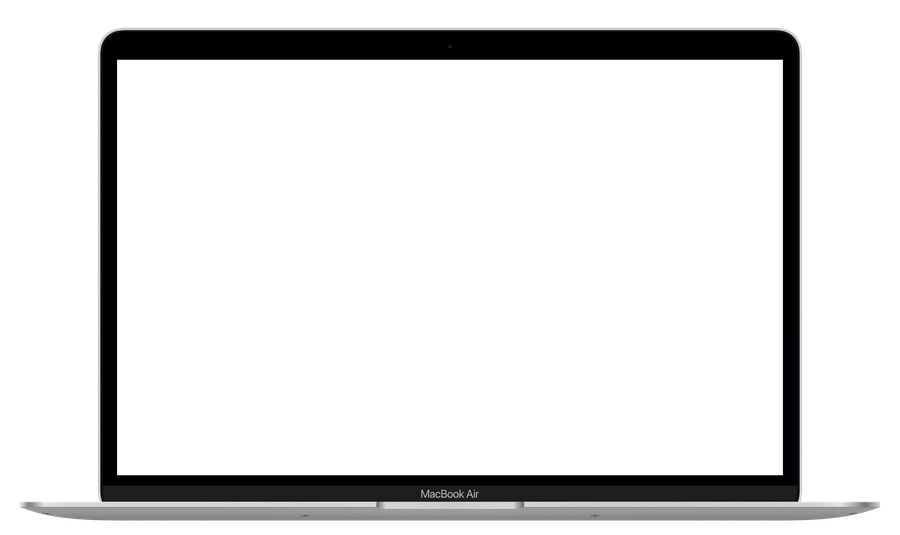
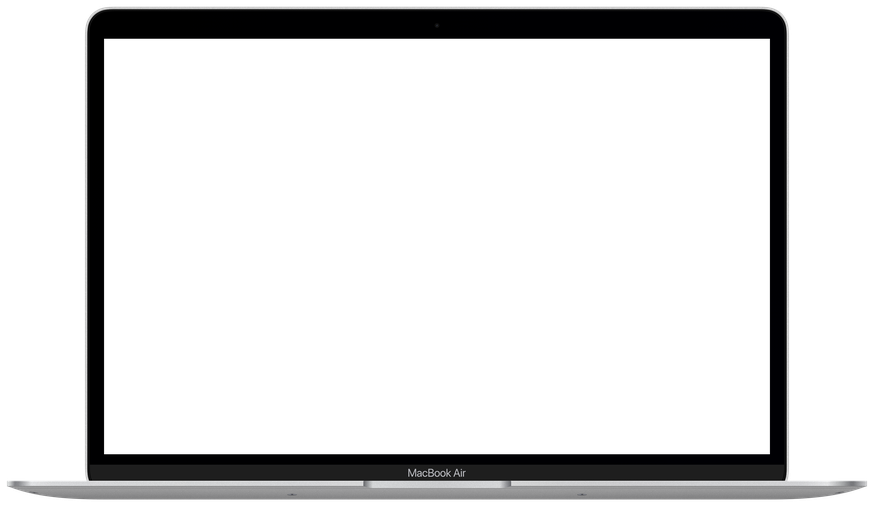
Close Dr Cuterus phone/laptop gap, enlarge laptop, dock plush at its corner
- Crop laptop-bezel.png to its actual content bounds (had padding of
  ~17-25px per side out of 900x535) and recompute .laptop position/size
  and .laptopScreen overlay percentages against the new crop origin
- Enlarge the laptop mockup ~13% and reposition so its visible left edge
  touches the phone's visible right edge with zero gap
- Recenter the plush cluster exactly on the laptop's new visible
  top-right corner so it straddles the corner half in, half out

Changed region(s): [[0.0, 0.0, 1.0, 1.0]]

diff --git a/src/components/case-studies/DrCuterus/DrCuterusCard.module.css b/src/components/case-studies/DrCuterus/DrCuterusCard.module.css
@@ -104,18 +104,18 @@
 /* Laptop mockup (homepage screenshot) */
 .laptop {
   position: absolute;
-  left: 265.55px;
-  top: 300.8px;
-  width: 426.564px;
-  height: 246.569px;
+  left: 259.06px;
+  top: 295.34px;
+  width: 454.4px;
+  height: 263.1px;
 }
 
 .laptopScreen {
   position: absolute;
-  left: 11.5%;
-  top: 6%;
-  width: 77%;
-  height: 80%;
+  left: 10.36%;
+  top: 2.19%;
+  width: 79.29%;
+  height: 84.59%;
   overflow: hidden;
 }
 
@@ -141,8 +141,8 @@
 /* Plush toy cutout */
 .plush {
   position: absolute;
-  left: 600px;
-  top: 240px;
+  left: 561.42px;
+  top: 202.42px;
   width: 300px;
   height: 190px;
   display: flex;